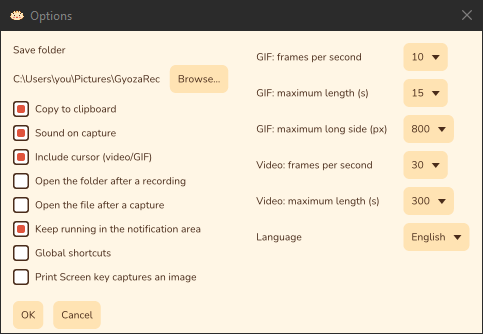
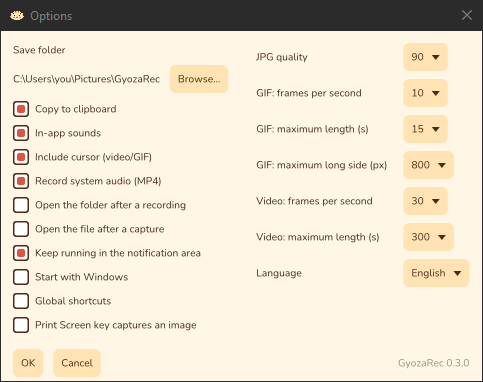
docs: 0.3.0 README, changelog and version
README covers system audio, recording sounds, JPG, the monitor picker,
start with Windows (and what to do before uninstalling) and configurable
shortcuts; CHANGELOG.md gets the 0.3.0 entry. Version bumped to 0.3.0.

diff --git a/README.md b/README.md
@@ -19,10 +19,10 @@
 A small toolbar:
 
 - **Capture** (**Record** for videos and GIFs) — starts a capture with the selected area, format and delay.
-- **Area** — Rectangle, Window or Full screen.
-- **Format** — PNG image, MP4 video or Animated GIF. Any area works with any format.
+- **Area** — Rectangle, Window or Full screen. With several monitors, Full screen asks which one: click it, or press Esc to cancel.
+- **Format** — PNG image, JPG image, MP4 video or Animated GIF. Any area works with any format.
 - **Delay** — from no delay up to 5 seconds.
-- **Options** — save folder, copy to clipboard, sound, cursor in recordings, opening the folder or the file after a capture, notification area, global shortcuts, frame rate and maximum length of GIFs and videos, language.
+- **Options** — save folder, copy to clipboard, in-app sounds, cursor in recordings, system audio in MP4s, opening the folder or the file after a capture, notification area, start with Windows, global shortcuts, JPG quality, frame rate and maximum length of GIFs and videos, language.
 
 <p align="center">
   <img src="docs/screenshots/toolbar.png" alt="The GyozaRec toolbar" valign="top">
@@ -32,11 +32,13 @@ A small toolbar:
 
 Images are copied to the clipboard; videos and GIFs are copied as files. A window recording keeps the area the window covered when recording started. While recording, a small panel shows the elapsed time with **Pause**/**Resume**, **Stop** and **Discard** buttons; paused time is left out of the file, and discarding asks for confirmation first. Nothing leaves your computer: no uploads, no accounts.
 
+MP4 recordings include the **system audio** (what the computer plays) by default; turn it off in **Options**. With **In-app sounds** on, short tones mark the start, pause, resume and end of a recording, and they are timed so they never end up in the video.
+
 ### Notification area and shortcuts
 
 GyozaRec stays in the notification area: closing the toolbar hides it, a click on the icon brings it back, and the icon's menu offers every kind of capture, **Options** and **Exit**. Turn this off in **Options** to make closing the toolbar quit the app.
 
-Global shortcuts are off by default; turn them on in **Options**:
+Global shortcuts are off by default; turn them on in **Options**, where each one can also be switched off on its own or given new keys (click its keys and press the new combination; **Reset shortcuts** restores these defaults):
 
 | Shortcut | Action |
 |---|---|
@@ -46,7 +48,9 @@ Global shortcuts are off by default; turn them on in **Options**:
 | Ctrl+Shift+F10 | Record the full screen |
 | Print Screen | Capture an image (optional; Windows' own Print Screen shortcut must be turned off) |
 
-If another app already uses a combination, **Options** marks it as unavailable.
+If another app already uses a combination, **Options** marks it as unavailable and the previous keys stay in use.
+
+**Start with Windows** (off by default) launches GyozaRec hidden in the notification area when you sign in; it also works for the portable version, which updates its entry when the folder moves. Turn the option off before uninstalling or deleting the portable folder: otherwise the sign-in entry stays behind, pointing to a missing file (Windows ignores it).
 
 ### Command line
 

diff --git a/CHANGELOG.md b/CHANGELOG.md
@@ -2,7 +2,20 @@
 
 All notable changes to GyozaRec are listed here. The format follows [Keep a Changelog](https://keepachangelog.com/en/1.1.0/), and versions follow [Semantic Versioning](https://semver.org/).
 
-## [0.2.0] - 2026-10-25
+## [0.3.0] - 2026-10-25
+
+### Added
+- System audio in MP4 recordings (on by default), captured from the default output device and encoded as AAC.
+- Recording sounds for start, pause, resume and stop, timed so they stay out of the video.
+- JPG screenshots, with a quality setting.
+- With several monitors, full-screen captures ask which monitor to take.
+- Start with Windows (off by default), hidden in the notification area; also for the portable version.
+- Configurable global shortcuts: new keys, switch each one off, reset to the defaults.
+
+### Changed
+- "Sound on capture" is now "In-app sounds".
+
+
 
 ### Added
 - Notification area icon (on by default): closing the toolbar hides it; the icon's menu offers every capture, Options and Exit.
@@ -33,5 +46,6 @@ All notable changes to GyozaRec are listed here. The format follows [Keep a Chan
 - Interface in nine languages, detected from Windows.
 - Per-user MSI installer and portable zip.
 
+[0.3.0]: https://github.com/martindavinci/GyozaRec/compare/v0.2.0...v0.3.0
 [0.2.0]: https://github.com/martindavinci/GyozaRec/compare/v0.1.0...v0.2.0
 [0.1.0]: https://github.com/martindavinci/GyozaRec/releases/tag/v0.1.0
